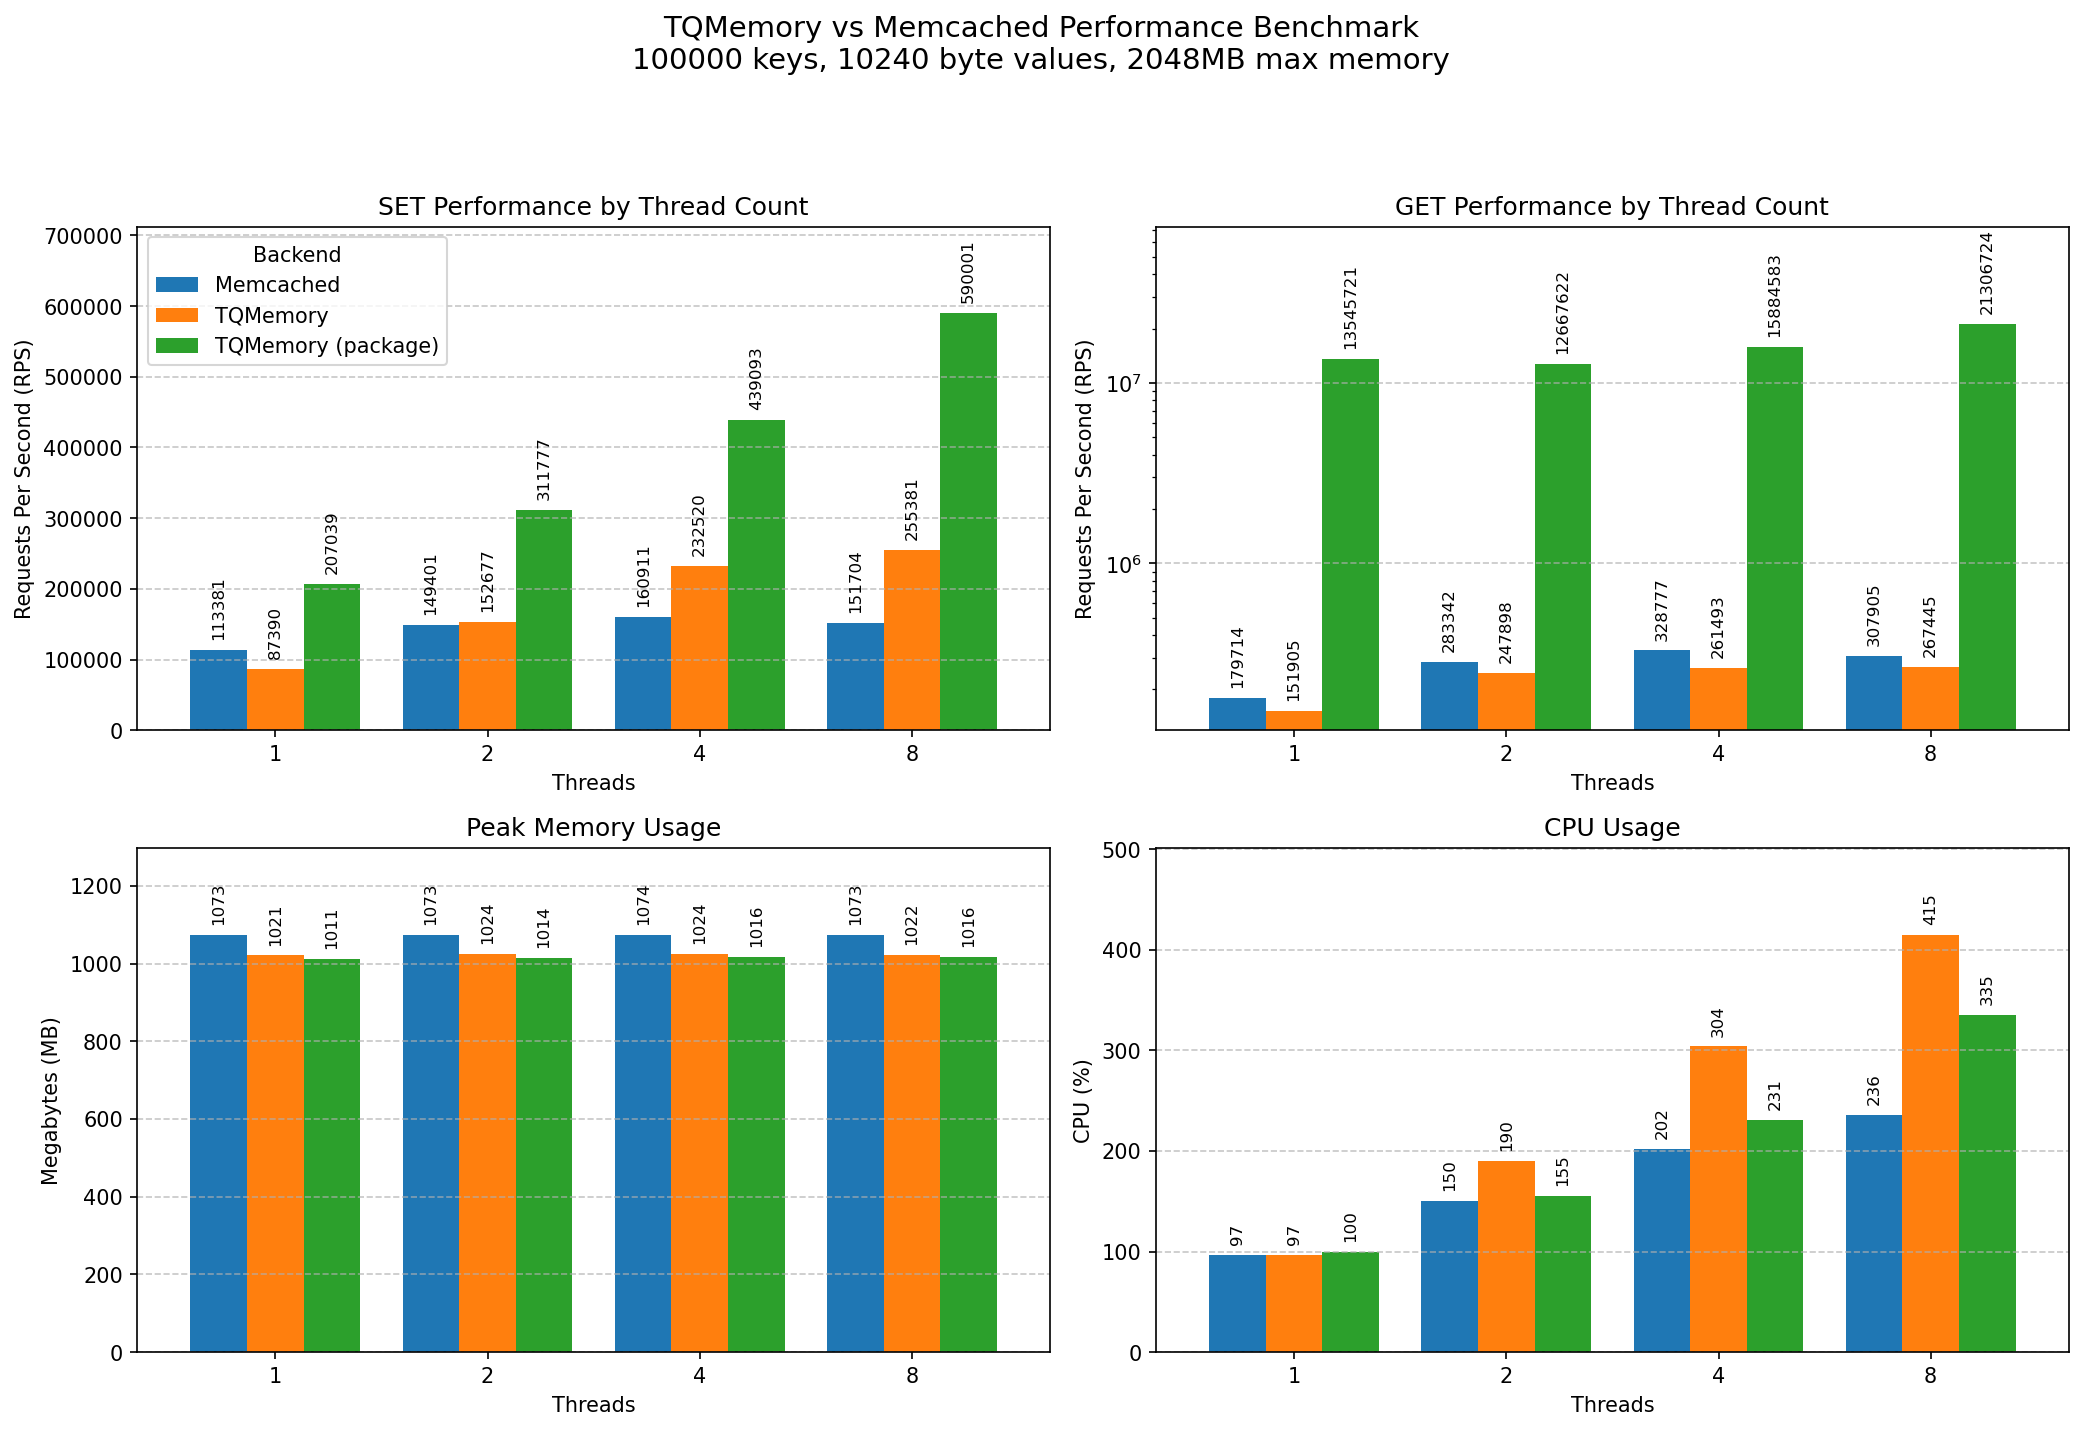
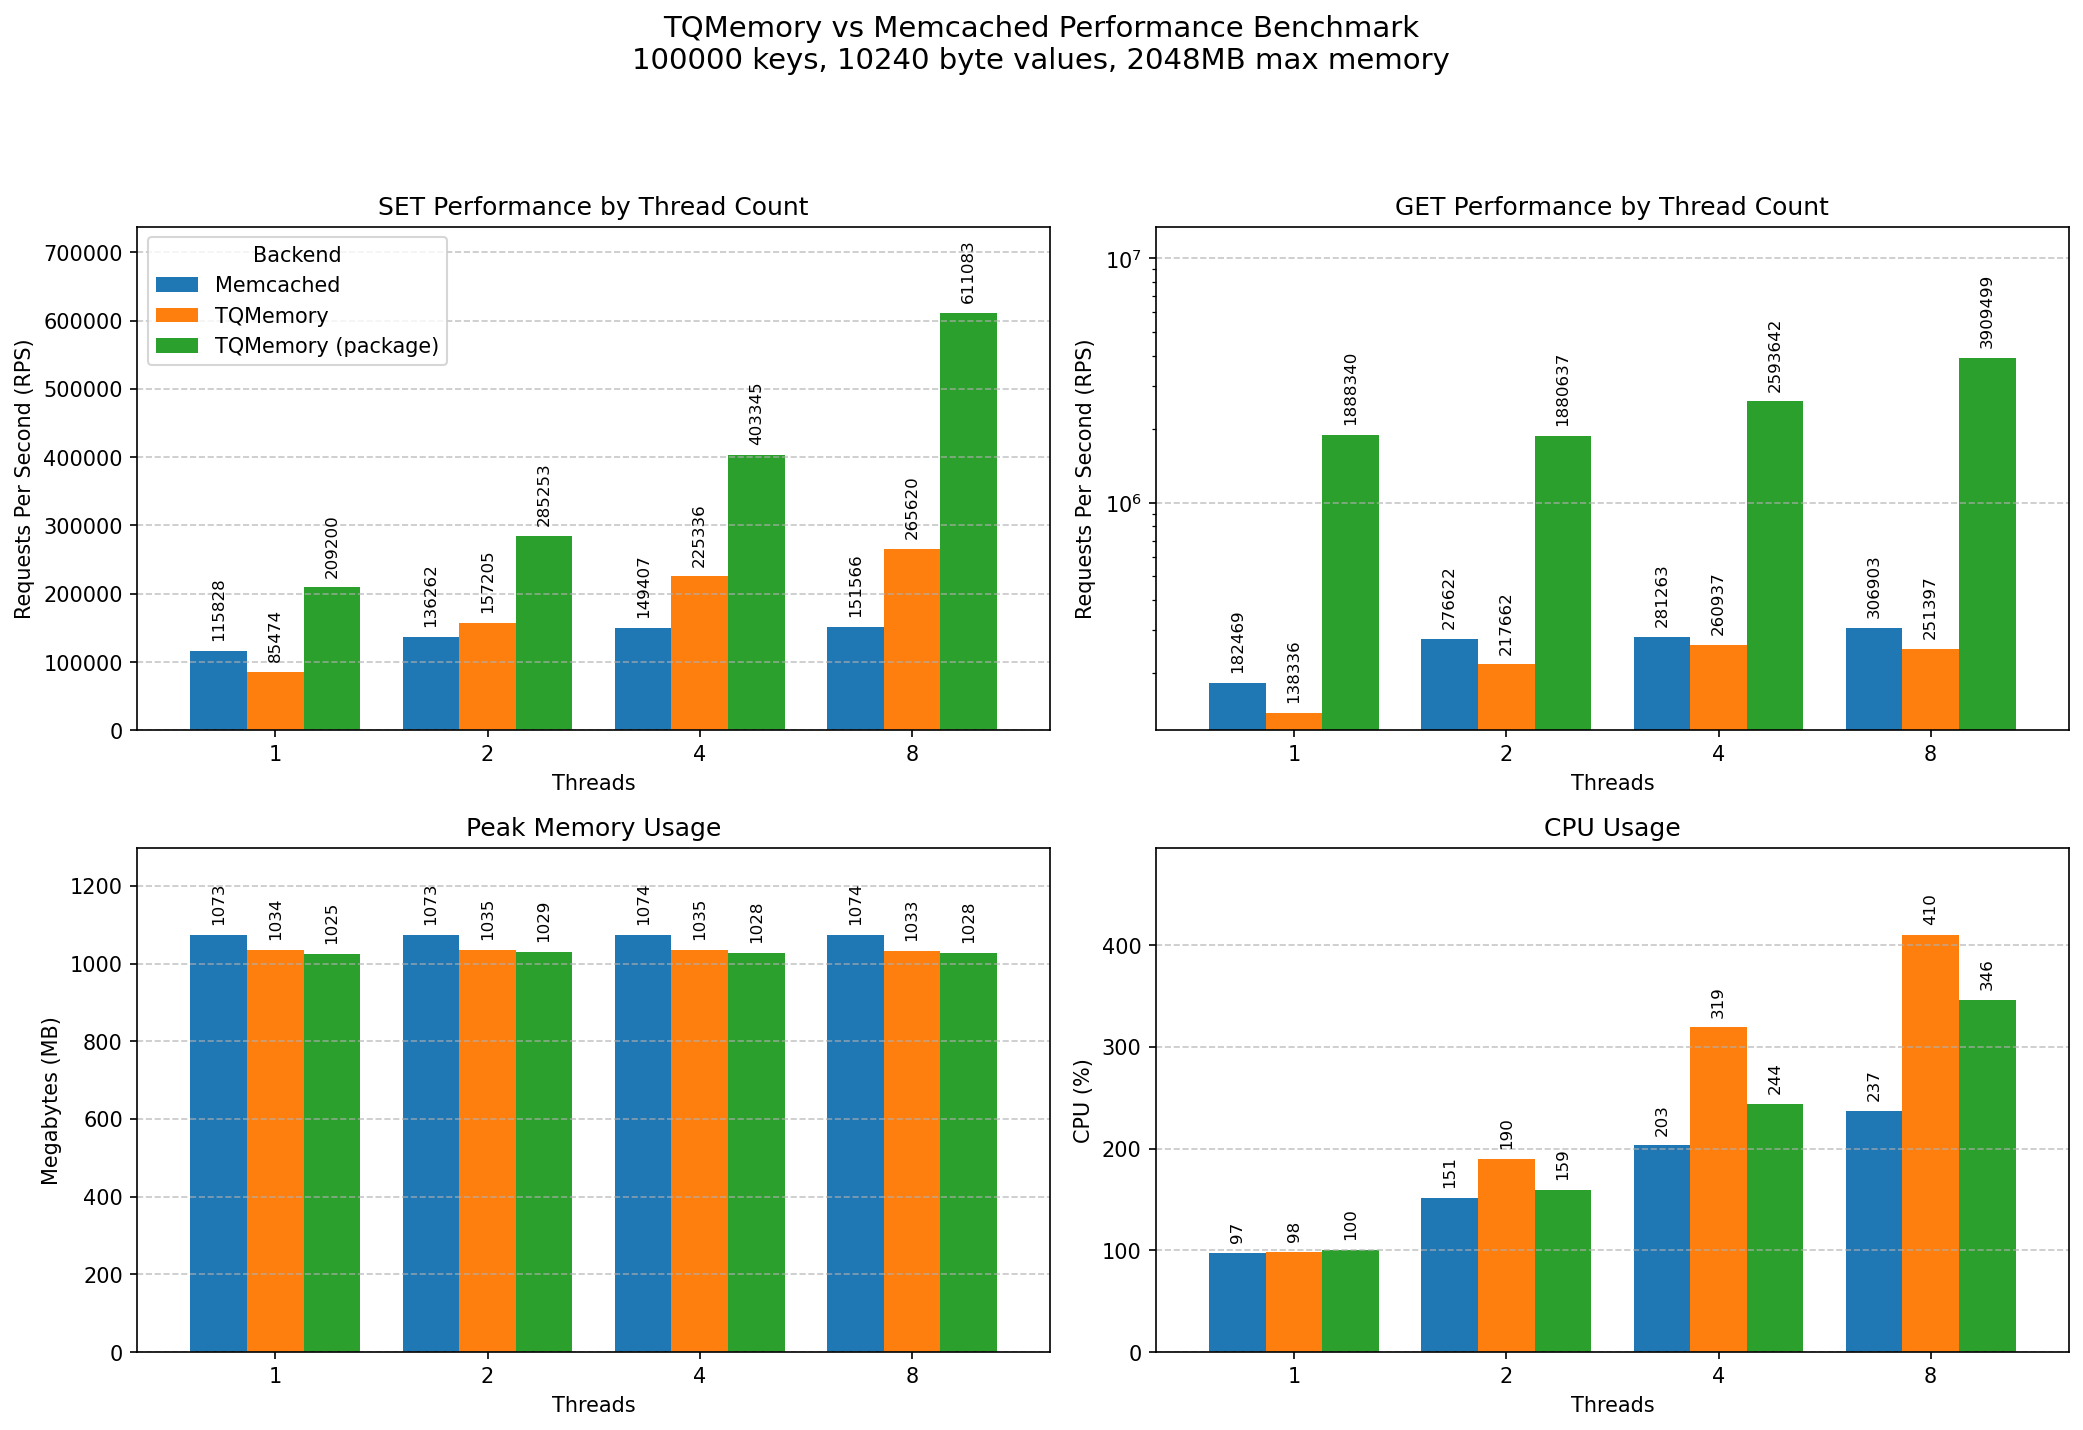
update

diff --git a/pkg/tqmemory/worker.go b/pkg/tqmemory/worker.go
@@ -2,7 +2,6 @@ package tqmemory
 
 import (
 	"strconv"
-	"sync"
 	"time"
 )
 
@@ -46,17 +45,16 @@ type Response struct {
 
 // Worker is the single-threaded cache worker
 type Worker struct {
-	mu         sync.RWMutex // Protects index for direct reads
 	index      *Index
 	reqChan    chan *Request
-	touchChan  chan string // Buffered channel for batched LRU touches
 	stopChan   chan struct{}
-	wg         sync.WaitGroup
 	casCounter uint64
 	DefaultTTL time.Duration
 	maxMemory  int64 // Max memory in bytes (0 = unlimited)
 	usedMemory int64 // Current memory usage
 	evictions  uint64
+	running    bool
+	done       chan struct{}
 }
 
 // NewWorker creates a new worker
@@ -64,26 +62,29 @@ func NewWorker(defaultTTL time.Duration, channelCapacity int, maxMemory int64) *
 	return &Worker{
 		index:      NewIndex(),
 		reqChan:    make(chan *Request, channelCapacity),
-		touchChan:  make(chan string, 10000),
 		stopChan:   make(chan struct{}),
 		casCounter: uint64(time.Now().UnixNano()),
 		DefaultTTL: defaultTTL,
 		maxMemory:  maxMemory,
 		usedMemory: 0,
 		evictions:  0,
+		done:       make(chan struct{}),
 	}
 }
 
 // Start starts the worker goroutine
 func (w *Worker) Start() {
-	w.wg.Add(1)
+	w.running = true
 	go w.run()
 }
 
 // Stop stops the worker and waits for it to finish
 func (w *Worker) Stop() {
-	close(w.stopChan)
-	w.wg.Wait()
+	if w.running {
+		close(w.stopChan)
+		<-w.done
+		w.running = false
+	}
 }
 
 // RequestChan returns the request channel
@@ -113,7 +114,7 @@ func (w *Worker) Close() error {
 }
 
 func (w *Worker) run() {
-	defer w.wg.Done()
+	defer close(w.done)
 
 	// Background ticker for maintenance tasks
 	ticker := time.NewTicker(100 * time.Millisecond)
@@ -122,62 +123,13 @@ func (w *Worker) run() {
 	for {
 		select {
 		case req := <-w.reqChan:
-			// Write requests need exclusive access
-			w.mu.Lock()
 			w.handleRequest(req)
-			w.mu.Unlock()
 		case <-ticker.C:
-			// Batch process: LRU touches and expiry
-			w.mu.Lock()
-			w.drainTouchChan()
 			w.expireKeys()
-			w.mu.Unlock()
 		case <-w.stopChan:
 			return
 		}
 	}
-}
-
-// drainTouchChan processes all pending LRU touch requests (must hold w.mu.Lock)
-func (w *Worker) drainTouchChan() {
-	for {
-		select {
-		case key := <-w.touchChan:
-			w.index.Touch(key)
-		default:
-			return
-		}
-	}
-}
-
-// DirectGet performs a read-locked GET.
-// Returns the value slice directly (caller must not modify it).
-func (w *Worker) DirectGet(key string) ([]byte, uint64, error) {
-	w.mu.RLock()
-	entry, ok := w.index.Get(key)
-	if !ok {
-		w.mu.RUnlock()
-		return nil, 0, ErrKeyNotFound
-	}
-	// Check expiry
-	if entry.Expiry > 0 && entry.Expiry <= time.Now().UnixMilli() {
-		w.mu.RUnlock()
-		return nil, 0, ErrKeyNotFound
-	}
-	// Capture values before releasing lock
-	value := entry.Value
-	cas := entry.Cas
-	keyToTouch := entry.Key
-	w.mu.RUnlock()
-
-	// Queue LRU touch for batched processing (non-blocking)
-	select {
-	case w.touchChan <- keyToTouch:
-	default:
-		// Channel full, skip this touch
-	}
-
-	return value, cas, nil
 }
 
 func (w *Worker) expireKeys() {

diff --git a/pkg/tqmemory/sharded.go b/pkg/tqmemory/sharded.go
@@ -94,9 +94,13 @@ func (sc *ShardedCache) sendRequest(workerIdx int, req *Request) *Response {
 	return resp
 }
 
-// Get retrieves a value from the cache using direct read path (no channel overhead).
+// Get retrieves a value from the cache.
 func (sc *ShardedCache) Get(key string) ([]byte, uint64, error) {
-	return sc.workers[sc.workerFor(key)].DirectGet(key)
+	resp := sc.sendRequest(sc.workerFor(key), &Request{
+		Op:  OpGet,
+		Key: key,
+	})
+	return resp.Value, resp.Cas, resp.Err
 }
 
 // Set stores a value in the cache.

diff --git a/PROJECT_BRIEF.md b/PROJECT_BRIEF.md
@@ -42,26 +42,26 @@ Uses a **sharded, worker-based architecture** with optimized read path:
 | Component        | Description                                      |
 | ---------------- | ------------------------------------------------ |
 | **ShardedCache** | Routes keys to workers via inline FNV-1a hash    |
-| **Worker**       | Owns shard data, handles writes via channel      |
-| **Index**        | RWMutex-protected map for O(1) key lookup        |
+| **Worker**       | Owns shard data, handles all ops via channel     |
+| **Index**        | Simple map for O(1) key lookup (no locks needed) |
 | **ExpiryHeap**   | Min-heap for efficient TTL management            |
 | **LRU List**     | Doubly linked list for eviction ordering         |
 
 **How it works**:
 
 1. Each worker owns a shard of data (divided by key hash)
-2. **GET operations**: Direct map access with RLock (concurrent reads)
-3. **SET/DELETE operations**: Sent via buffered channel to worker goroutine
-4. LRU touches are batched and processed every 100ms
+2. **All operations**: Sent via buffered channel to worker goroutine
+3. Single worker goroutine processes all requests for its shard
+4. No locks needed - each shard has exclusive single-threaded access
 5. GOMAXPROCS = `max(min(cpu_count, workers), 1)` for optimal parallelism
 
 **Benefits**:
 
-- **Fast reads**: Direct map access with RLock, no channel overhead for GETs
-- **Write serialization**: All writes processed by single worker goroutine
+- **Lock-free**: No RWMutex, no lock contention, no synchronization overhead
+- **Write serialization**: All operations processed by single worker goroutine
 - **Per-worker LRU**: Each shard has independent memory limit and eviction
-- **Batched LRU**: LRU updates processed periodically to reduce overhead
-- **Predictable latency**: Sequential write processing, no lock contention
+- **Simple model**: Single-threaded per shard is easier to reason about
+- **Predictable latency**: Sequential processing, no lock contention
 
 ---
 

diff --git a/OPTIMIZATIONS.md b/OPTIMIZATIONS.md
@@ -44,23 +44,15 @@ type Index struct {
 
 ---
 
-### Phase 3: Direct GET Path with RWMutex
+### Phase 3: Direct GET Path with RWMutex (Reverted)
 
 **File**: `pkg/tqmemory/worker.go`, `pkg/tqmemory/sharded.go`
 
 **Change**: Added `DirectGet()` method that bypasses the channel for read operations, using `RWMutex` for concurrent access.
 
-```go
-func (w *Worker) DirectGet(key string) ([]byte, uint64, error) {
-    w.mu.RLock()
-    entry, ok := w.index.Get(key)
-    // ... check expiry ...
-    w.mu.RUnlock()
-    return entry.Value, entry.Cas, nil
-}
-```
-
 **Result**: +10% improvement. Eliminated channel overhead for GET operations.
+
+**Status**: **Reverted** in favor of a fully lock-free design. All operations (including GET) now go through the worker channel, eliminating the need for any locks. The single-writer-per-shard model is simpler and avoids lock contention entirely.
 
 ---
 
@@ -149,29 +141,15 @@ return entry.Value, entry.Cas, nil
 
 ---
 
-### Phase 7: Batched LRU Touch
+### Phase 7: Batched LRU Touch (Reverted)
 
 **File**: `pkg/tqmemory/worker.go`
 
-**Change**: LRU touches are queued to a buffered channel and processed in batches every 100ms.
-
-```go
-// In DirectGet:
-select {
-case w.touchChan <- entry.Key:
-default:
-    // Channel full, skip this touch
-}
-
-// In worker run loop:
-case <-expiryTicker.C:
-    w.mu.Lock()
-    w.drainTouchChan()  // Process all pending LRU touches
-    w.expireKeys()
-    w.mu.Unlock()
-```
+**Change**: LRU touches were queued to a buffered channel and processed in batches every 100ms.
 
 **Result**: +3% improvement. Reduced lock contention by batching LRU updates.
+
+**Status**: **Reverted** along with Phase 3. Since all operations now go through the worker channel (single-threaded per shard), LRU touches are processed inline with no lock contention. The batching mechanism is no longer needed.
 
 ---
 

diff --git a/README.md b/README.md
@@ -113,8 +113,8 @@ go test ./pkg/tqmemory/...
 TQMemory uses a sharded, worker-based architecture optimized for high-throughput:
 
 - **Sharded Cache**: Keys are distributed across workers via FNV-1a hash
-- **Direct GET Path**: Read operations use RWMutex for concurrent access
-- **Batched LRU**: LRU updates are processed in batches for efficiency
+- **Lock-Free Workers**: All operations go through channels to a single worker goroutine per shard
+- **No Lock Contention**: Each worker owns its shard exclusively, eliminating locks
 - **Memory Management**: Per-worker memory limits with LRU eviction
 
 See [PROJECT_BRIEF.md](PROJECT_BRIEF.md) for detailed architecture.

diff --git a/LIMITATIONS.md b/LIMITATIONS.md
@@ -148,5 +148,5 @@ The following Memcached commands are not implemented:
 
 ## Thread Safety and LRU Eviction
 
-TQMemory uses a sharded worker architecture. Each worker handles a subset of keys determined by FNV-1a hash, eliminating lock contention for most operations.
+TQMemory uses a sharded, lock-free worker architecture. Each worker handles a subset of keys determined by FNV-1a hash, with all operations (GET and SET) processed by a single goroutine per shard through a channel. This eliminates lock contention entirely.
 It implements per worker LRU based eviction, determining the max memory usage per worker as a percentage of the total memory limit.
